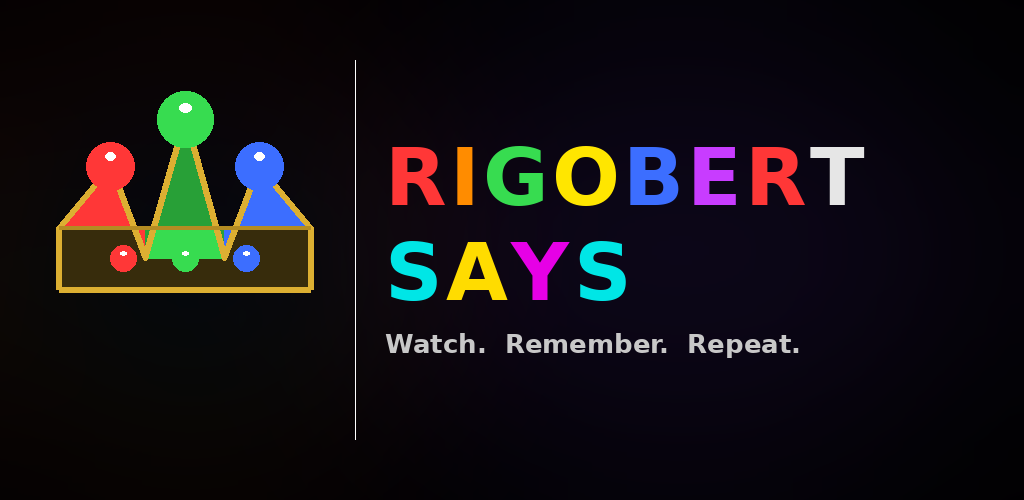
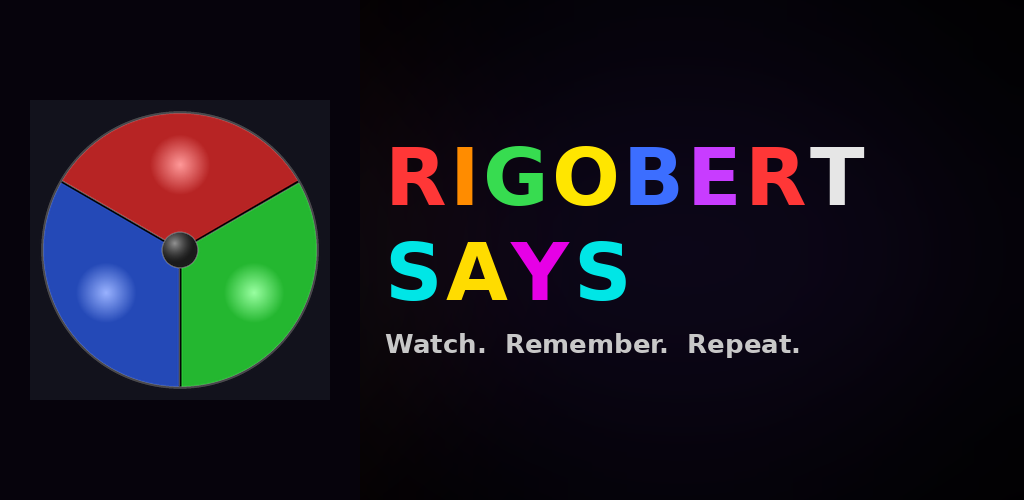
Fix Android package name and update Play Console config
- Rename package from com.rigobert.rigobert_says to com.rigobert.rigobertSays
  in build.gradle.kts and MainActivity.kt (also moved to correct directory)
- Update real Android leaderboard IDs from Play Console
- Replace crown with disc icon in feature_graphic.png
- Add icon_disc_512.png
- Bump version code to 2

Changed region(s): [[0.0312, 0.18, 0.3125, 0.78]]

diff --git a/lib/leaderboard_service.dart b/lib/leaderboard_service.dart
@@ -10,10 +10,10 @@ const _kIosFloat   = 'com.rigobert.rigobertSays.leaderboard_float';
 const _kIosSpin    = 'com.rigobert.rigobertSays.leaderboard_spin';
 const _kIosBoth    = 'com.rigobert.rigobertSays.leaderboard_both';
 
-const _kAndroidStill = 'CgkI_leaderboard_still';   // replace with Play Console IDs
-const _kAndroidFloat = 'CgkI_leaderboard_float';
-const _kAndroidSpin  = 'CgkI_leaderboard_spin';
-const _kAndroidBoth  = 'CgkI_leaderboard_both';
+const _kAndroidStill = 'CgkIwuSWp_0SEAIQAg';   // replace with Play Console IDs
+const _kAndroidFloat = 'CgkIwuSWp_0SEAIQAQ';
+const _kAndroidSpin  = 'CgkIwuSWp_0SEAIQAw';
+const _kAndroidBoth  = 'CgkIwuSWp_0SEAIQBA';
 
 // Minimum score worth posting to the global board.
 const kLeaderboardMinScore = 10;